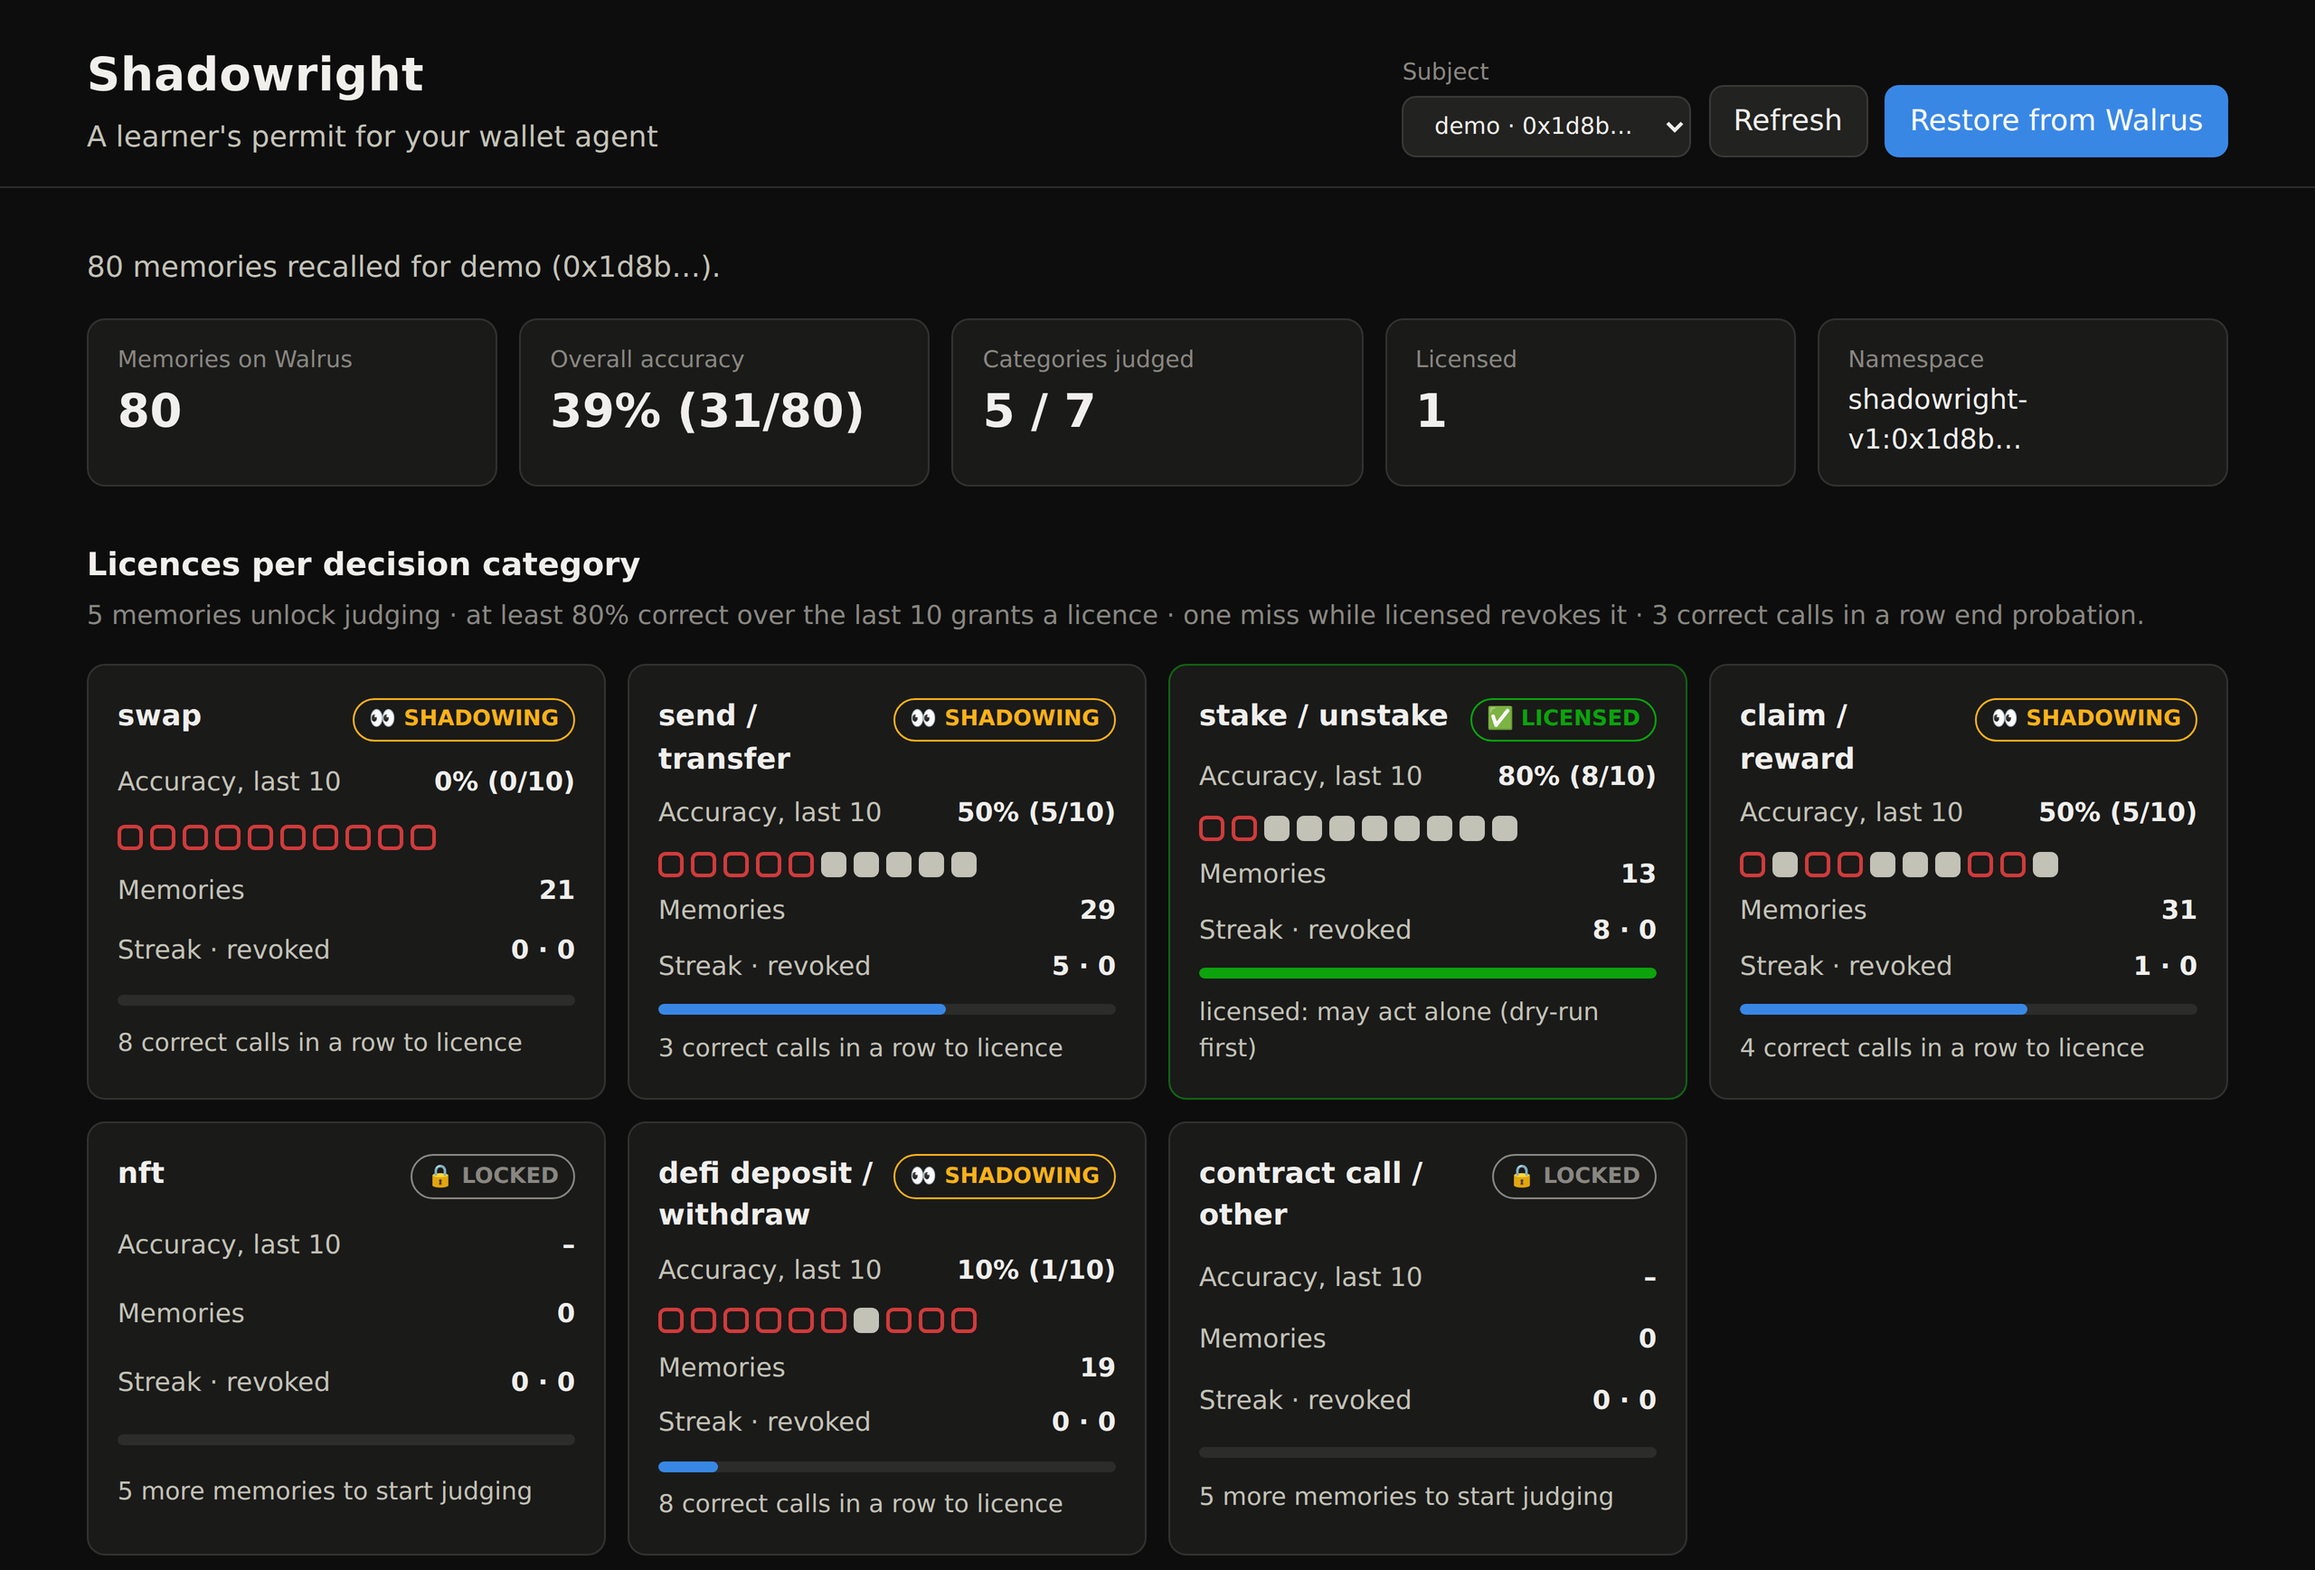
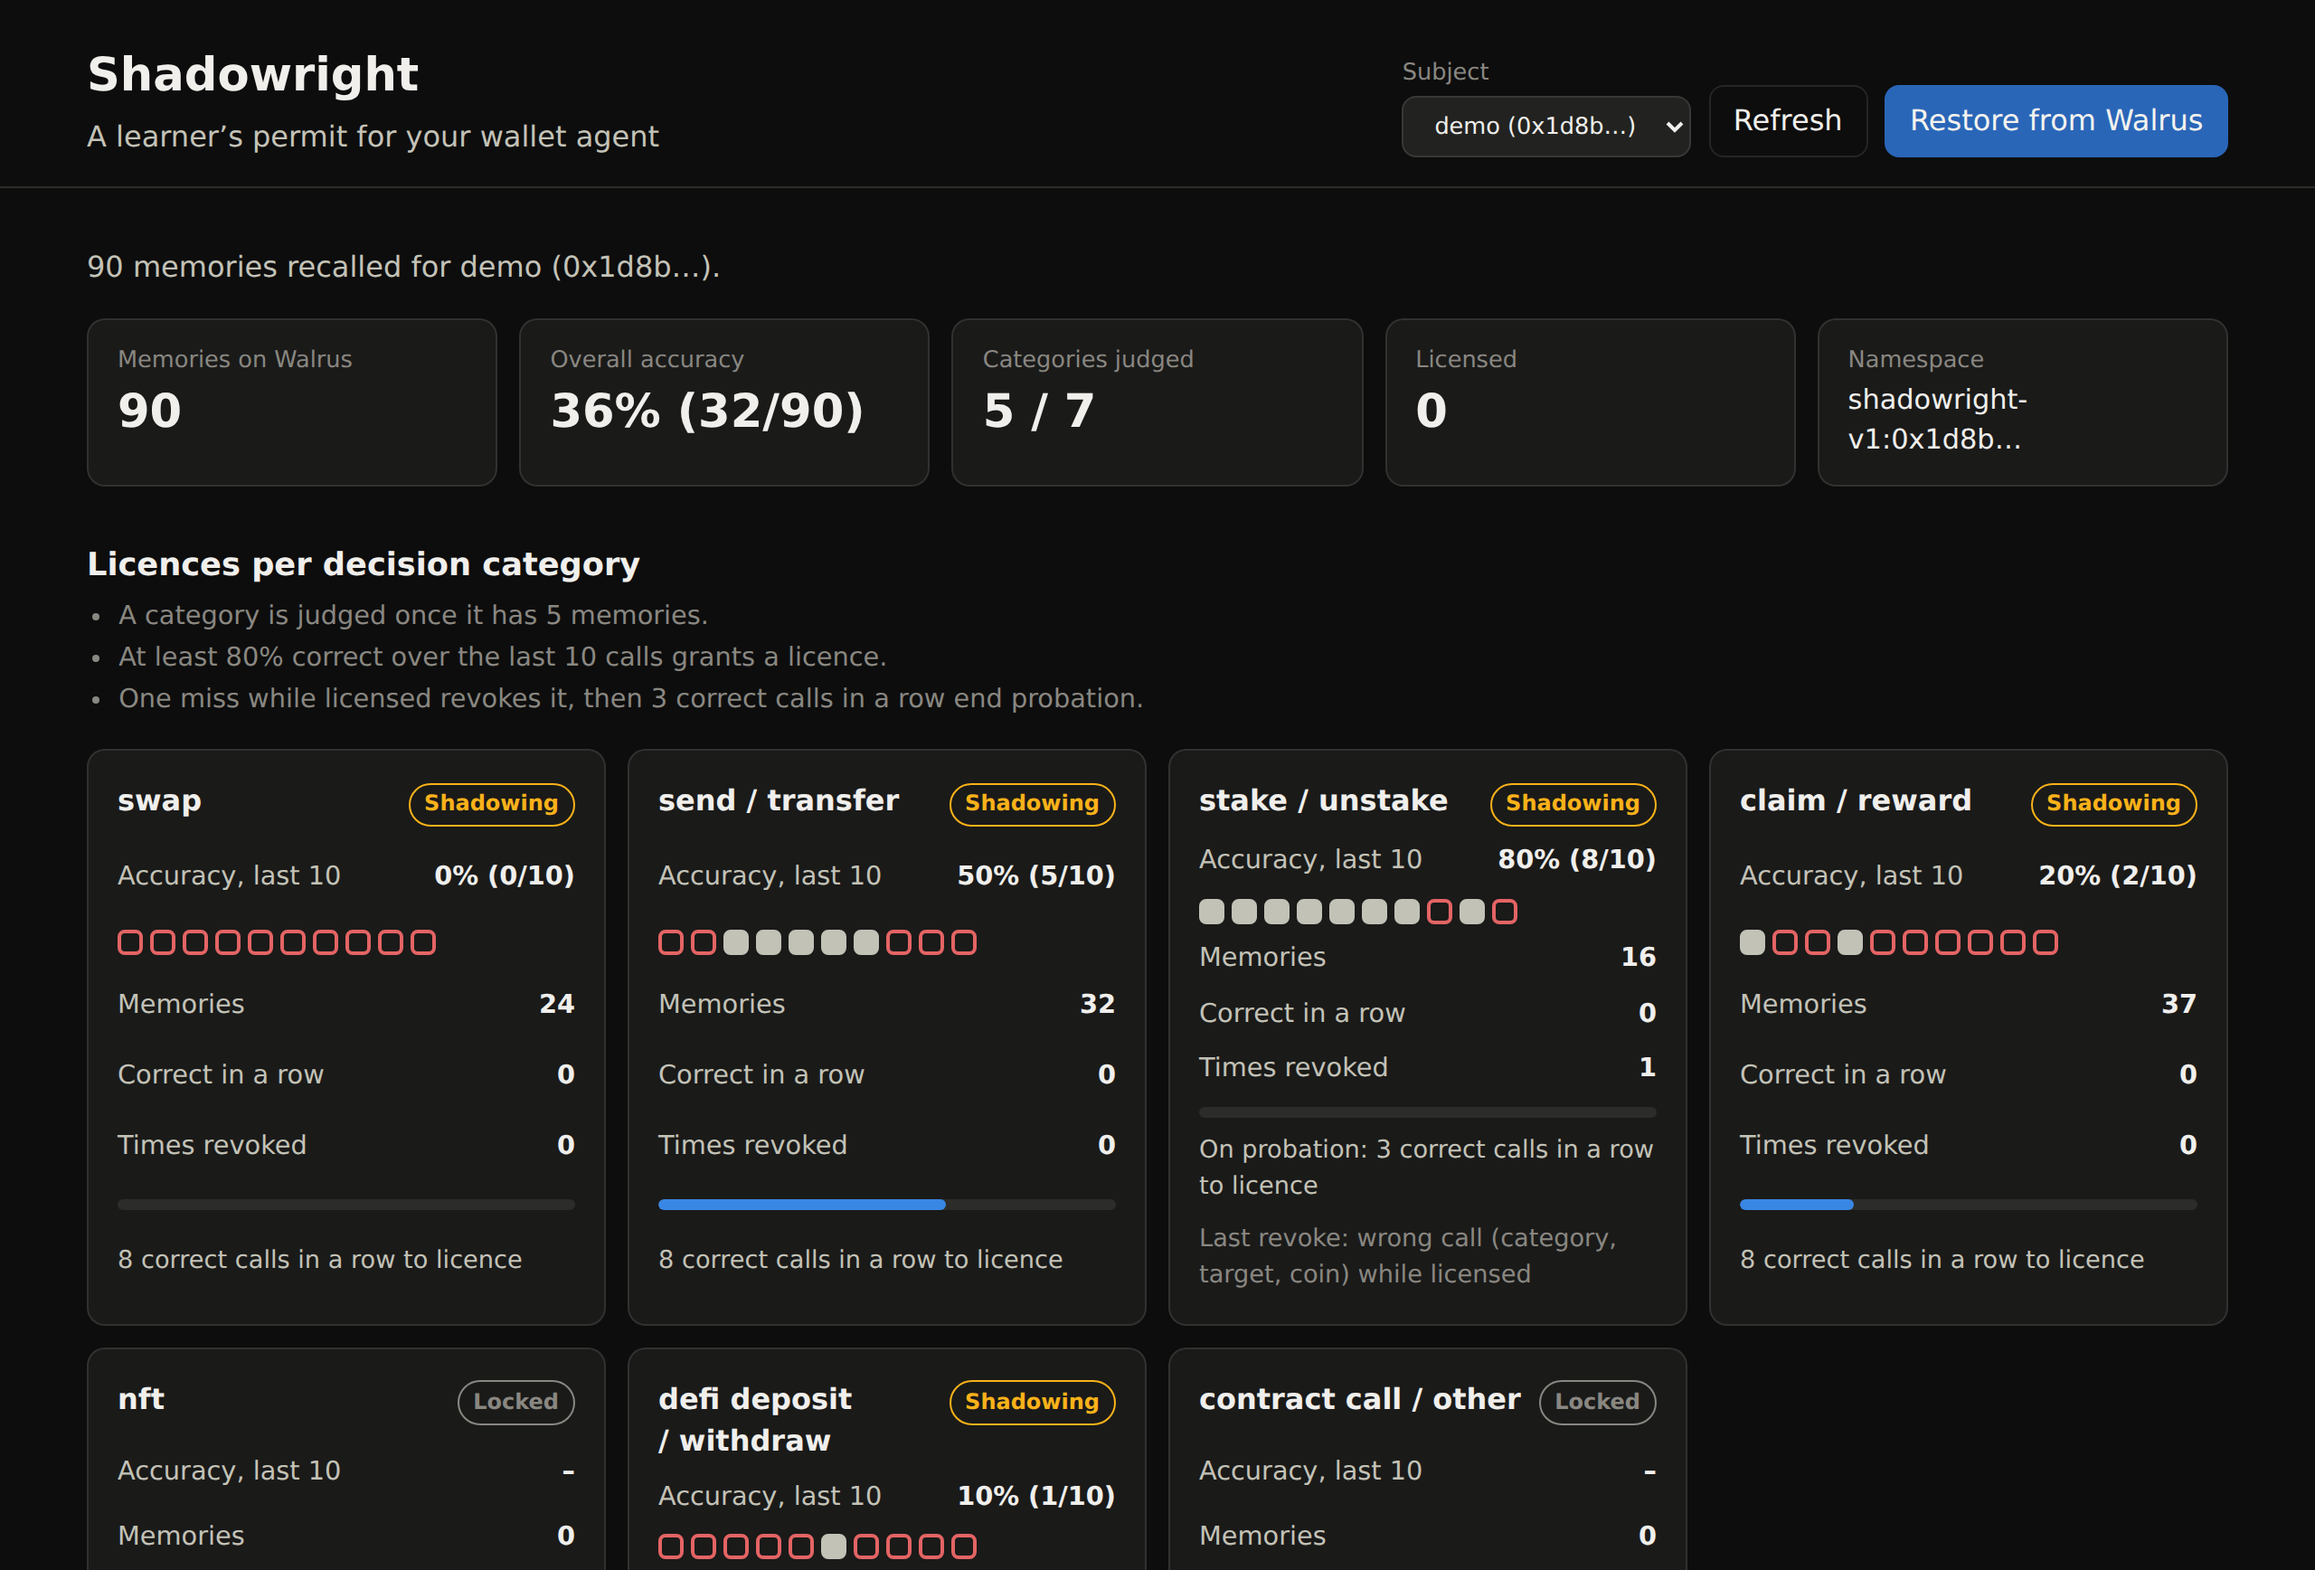
Board: accessibility and copy pass, refreshed screenshots
Contrast on the primary button and wrong-call verdicts now clears 4.5:1,
state badges are plain words instead of emoji, rule hints read as a list,
streak and revoke counts get their own rows, every colour goes through a
token, and buttons have pressed and disabled states. Checked with the
Hallmark linter (MIT, github.com/Nutlope/hallmark). docs/img recaptured
from live Walrus Memory recall (90 memories, stake back on probation).

diff --git a/web/app.js b/web/app.js
@@ -1,6 +1,6 @@
 // Licence Board front end: plain DOM, no dependencies. All text goes through textContent.
 
-const STATE_ICON = { LOCKED: '🔒', SHADOWING: '👀', LICENSED: '✅' };
+const STATE_NAME = { LOCKED: 'Locked', SHADOWING: 'Shadowing', LICENSED: 'Licensed' };
 const LICENCE_THRESHOLD = 0.8;
 const SVG_NS = 'http://www.w3.org/2000/svg';
 
@@ -68,14 +68,15 @@ function renderCards(view) {
       return h(
         'article',
         { class: `card ${card.state.toLowerCase()}` },
-        h('header', {}, h('h3', {}, card.label), h('span', { class: `badge ${card.state}` }, `${STATE_ICON[card.state]} ${card.state}`)),
+        h('header', {}, h('h3', {}, card.label), h('span', { class: `badge ${card.state}` }, STATE_NAME[card.state])),
         h('div', { class: 'metric' }, 'Accuracy, last 10', h('strong', {}, card.recent.length ? `${pct(card.accuracy)} (${card.recent.filter(Boolean).length}/${card.recent.length})` : '–')),
         card.recent.length ? dots : null,
         h('div', { class: 'metric' }, 'Memories', h('strong', {}, String(card.memories))),
-        h('div', { class: 'metric' }, 'Streak · revoked', h('strong', {}, `${card.streak} · ${card.revocations}`)),
+        h('div', { class: 'metric' }, 'Correct in a row', h('strong', {}, String(card.streak))),
+        h('div', { class: 'metric' }, 'Times revoked', h('strong', {}, String(card.revocations))),
         bar,
         h('p', { class: 'needed' }, card.onProbation ? `On probation: ${card.needed}` : card.needed),
-        card.lastRevokeReason ? h('p', { class: 'revoke' }, `Last revoke: ${card.lastRevokeReason}`) : null,
+        card.lastRevokeReason ? h('p', { class: 'revoke' }, `Last revoke: ${card.lastRevokeReason.replace(/^revoked:\s*/, '')}`) : null,
       );
     }),
   );
@@ -149,8 +150,9 @@ function renderCurve(view) {
       markers[i].setAttribute('visibility', 'visible');
     });
     tooltip.replaceChildren(
-      h('div', {}, h('strong', {}, `Memory #${p.index}`), ` · ${p.correct ? '✓ correct' : '✗ wrong'}`),
-      h('div', {}, `Last 10: ${pct(p.rolling)} · all: ${pct(p.cumulative)}`),
+      h('div', {}, h('strong', {}, `Memory #${p.index}`), `, ${p.correct ? 'correct' : 'wrong'}`),
+      h('div', {}, `Last 10: ${pct(p.rolling)}`),
+      h('div', {}, `All so far: ${pct(p.cumulative)}`),
       h('div', { style: 'color:var(--muted)' }, when(p.timestampMs)),
     );
     tooltip.hidden = false;
@@ -172,7 +174,7 @@ function renderEvents(view) {
   const events = [...view.events].reverse();
   $('events').replaceChildren(
     ...(events.length
-      ? events.map((e) => h('li', {}, h('time', {}, when(e.timestampMs)), ` · ${e.category}: ${STATE_ICON[e.from]} ${e.from} → ${STATE_ICON[e.to]} ${e.to} (${e.reason})`))
+      ? events.map((e) => h('li', {}, h('time', {}, when(e.timestampMs)), h('strong', {}, e.category), h('span', {}, `${STATE_NAME[e.from]} to ${STATE_NAME[e.to]}`), h('span', { class: 'reason' }, e.reason)))
       : [h('li', {}, 'No licence changes yet.')]),
   );
 }
@@ -197,7 +199,7 @@ function renderTimeline(view) {
         h(
           'div',
           { class: 'head' },
-          h('span', { class: 'verdict' }, m.correct ? '✓ correct' : `✗ wrong (${m.misses.join(', ')})`),
+          h('span', { class: 'verdict' }, m.correct ? 'Correct' : `Wrong: ${m.misses.join(', ')}`),
           h('span', { class: 'tag' }, m.category),
           m.predictedAtMs ? h('span', { class: 'tag', title: `predicted ${when(m.predictedAtMs)}, before the transaction was read` }, 'live') : null,
           h('time', {}, when(m.timestampMs)),
@@ -247,7 +249,7 @@ async function restore() {
 
 async function start() {
   const subjects = await api('/api/subjects');
-  subjectSelect.replaceChildren(...subjects.map((s) => h('option', { value: s.name }, `${s.name} · ${s.short}…`)));
+  subjectSelect.replaceChildren(...subjects.map((s) => h('option', { value: s.name }, `${s.name} (${s.short}…)`)));
   const preferred = new URLSearchParams(location.search).get('subject') ?? subjects.find((s) => s.isDefault)?.name;
   if (preferred) subjectSelect.value = preferred;
   await load();

diff --git a/web/style.css b/web/style.css
@@ -1,3 +1,5 @@
+/* Hallmark · audit fixes on the existing board; layout, palette and type kept so it still matches the demo video */
+/* Hallmark · pre-emit critique: floor-only pass · weakest: type, still the system face; kept on purpose so the video and repo agree */
 :root {
   color-scheme: dark;
   --page: #0d0d0d;
@@ -13,7 +15,12 @@
   --series-2: #d95926;
   --good: #0ca30c;
   --warning: #fab219;
-  --critical: #d03b3b;
+  --critical: #e46464;
+  --accent: #2a66b8;
+  --accent-press: #22579e;
+  --on-accent: #f4f3ef;
+  --press: #2a2a28;
+  --shadow: rgba(0, 0, 0, 0.4);
   --radius: 10px;
   font-family: system-ui, -apple-system, 'Segoe UI', sans-serif;
   background: var(--page);
@@ -22,6 +29,11 @@
 
 * {
   box-sizing: border-box;
+}
+
+html,
+body {
+  overflow-x: clip;
 }
 
 body {
@@ -49,15 +61,35 @@ select:hover {
   border-color: var(--muted);
 }
 
-button:disabled {
-  opacity: 0.5;
+button:active,
+select:active {
+  background: var(--press);
+}
+
+button.quiet {
+  background: transparent;
+}
+
+button.quiet:active {
+  background: var(--press);
+}
+
+button:disabled,
+button.primary:disabled {
+  background: var(--surface);
+  border-color: var(--grid);
+  color: var(--muted);
   cursor: progress;
 }
 
 button.primary {
-  background: var(--series-1);
-  border-color: var(--series-1);
-  color: #fff;
+  background: var(--accent);
+  border-color: var(--accent);
+  color: var(--on-accent);
+}
+
+button.primary:active {
+  background: var(--accent-press);
 }
 
 :focus-visible {
@@ -78,7 +110,12 @@ button.primary {
 .brand h1 {
   margin: 0;
   font-size: 1.6rem;
-  letter-spacing: 0.01em;
+}
+
+h1,
+h2,
+h3 {
+  text-wrap: balance;
 }
 
 .tagline {
@@ -108,6 +145,12 @@ main {
 h2 {
   font-size: 1.1rem;
   margin: 2rem 0 0.25rem;
+}
+
+.rules {
+  padding-left: 1.1rem;
+  display: grid;
+  gap: 0.15rem;
 }
 
 .hint {
@@ -162,6 +205,7 @@ h2 {
 
 .card {
   background: var(--surface);
+  color: var(--ink);
   border: 1px solid var(--ring);
   border-radius: var(--radius);
   padding: 1rem;
@@ -313,7 +357,7 @@ h2 {
   font-size: 0.8rem;
   color: var(--ink);
   white-space: nowrap;
-  box-shadow: 0 4px 16px rgba(0, 0, 0, 0.4);
+  box-shadow: 0 4px 16px var(--shadow);
 }
 
 .tooltip[hidden] {
@@ -336,6 +380,17 @@ h2 {
   padding: 0.55rem 0.8rem;
   font-size: 0.9rem;
   color: var(--ink-2);
+  display: flex;
+  flex-wrap: wrap;
+  gap: 0.25rem 0.75rem;
+}
+
+.events strong {
+  color: var(--ink);
+}
+
+.events .reason {
+  color: var(--muted);
 }
 
 .events time,
@@ -347,20 +402,11 @@ h2 {
 .memory {
   background: var(--surface);
   border: 1px solid var(--ring);
-  border-left: 3px solid var(--axis);
   border-radius: 8px;
   padding: 0.75rem 0.9rem;
   display: grid;
   gap: 0.3rem;
   font-size: 0.9rem;
-}
-
-.memory.correct {
-  border-left-color: var(--good);
-}
-
-.memory.wrong {
-  border-left-color: var(--critical);
 }
 
 .memory .head {

diff --git a/web/index.html b/web/index.html
@@ -3,21 +3,22 @@
   <head>
     <meta charset="utf-8" />
     <meta name="viewport" content="width=device-width, initial-scale=1" />
-    <title>Shadowright · Licence Board</title>
+    <title>Shadowright licence board</title>
+    <meta name="description" content="Shadowright licence board: how often a wallet agent guessed its owner's next Sui move, per decision category, recalled from Walrus Memory." />
     <link rel="stylesheet" href="/style.css" />
   </head>
   <body>
     <header class="top">
       <div class="brand">
         <h1>Shadowright</h1>
-        <p class="tagline">A learner's permit for your wallet agent</p>
+        <p class="tagline">A learner’s permit for your wallet agent</p>
       </div>
       <div class="controls">
         <label class="field">
           <span>Subject</span>
           <select id="subject"></select>
         </label>
-        <button id="refresh" type="button">Refresh</button>
+        <button id="refresh" type="button" class="quiet">Refresh</button>
         <button id="restore" type="button" class="primary" title="Rebuild this board in a fresh Walrus Memory client, from Walrus only">
           Restore from Walrus
         </button>
@@ -31,10 +32,11 @@
 
       <section aria-labelledby="licences-title">
         <h2 id="licences-title">Licences per decision category</h2>
-        <p class="hint">
-          5 memories unlock judging · at least 80% correct over the last 10 grants a licence · one miss while licensed
-          revokes it · 3 correct calls in a row end probation.
-        </p>
+        <ul class="hint rules">
+          <li>A category is judged once it has 5 memories.</li>
+          <li>At least 80% correct over the last 10 calls grants a licence.</li>
+          <li>One miss while licensed revokes it, then 3 correct calls in a row end probation.</li>
+        </ul>
         <div class="cards" id="cards"></div>
       </section>
 

diff --git a/README.md b/README.md
@@ -33,9 +33,9 @@ flowchart LR
 
 | State | Meaning |
 | --- | --- |
-| 🔒 `LOCKED` | Fewer than 5 memories in this category. The agent only watches. |
-| 👀 `SHADOWING` | The agent predicts privately, but is not accurate enough yet (or is on probation). |
-| ✅ `LICENSED` | At least 80% correct over the last 10 memories. The agent may act alone, dry-run first. |
+| `LOCKED` | Fewer than 5 memories in this category. The agent only watches. |
+| `SHADOWING` | The agent predicts privately, but is not accurate enough yet (or is on probation). |
+| `LICENSED` | At least 80% correct over the last 10 memories. The agent may act alone, dry-run first. |
 
 A prediction is correct only if the kind of action, the venue (or recipient) and the coin all
 match; the amount is reported but not required. A wrong prediction counts against both the
@@ -65,7 +65,7 @@ licensed for stake, expected another redeem; the user deposited USDC into a Navi
 The board logged "revoked: wrong call (category, target, coin) while licensed" and stake went
 back to shadowing. Nothing staged. Totals after 10 live calls: 90 memories, 32 correct (36%).
 
-<img src="docs/img/card-stake.png" alt="The stake / unstake card: LICENSED, 80% (8/10) over the last 10 memories" width="320">
+<img src="docs/img/card-stake.png" alt="The stake / unstake card: 80% (8/10) over the last 10 memories, back to SHADOWING on probation after a real revoke" width="320">
 
 Every card, the curve, the licence events and the memory timeline are rebuilt from Walrus Memory
 recall. Each memory links to its transaction on Suiscan and its blob on Walruscan:
